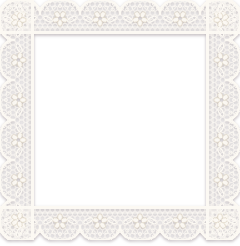
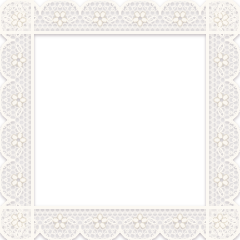
Seamless lace (page edges and invitation frame); paper texture on all cards and popups
Claude-Session: https://claude.ai/code/session_01AsA5vBc6AvZgEsD5xC2kRu

diff --git a/index.html b/index.html
@@ -236,7 +236,7 @@
   .music-fab .eq{height:18px;padding-bottom:1px}
   .music-fab[aria-pressed="true"]{background:var(--rose);color:#fff;border-color:#E2C487}
   .sheet-bg{position:fixed;inset:0;z-index:30;background:rgba(70,30,50,.35);backdrop-filter:blur(3px);display:flex;align-items:flex-end;justify-content:center;animation:fade-in .25s ease}
-  .sheet{width:min(460px,100%);background:#fff;border-radius:26px 26px 0 0;padding:10px 20px calc(20px + env(safe-area-inset-bottom));box-shadow:0 -10px 40px -10px rgba(120,35,70,.4);animation:sheet-up .35s cubic-bezier(.2,.8,.2,1)}
+  .sheet{width:min(460px,100%);background:#FBF8F2 url(img/papercard.jpg);border-radius:26px 26px 0 0;padding:10px 20px calc(20px + env(safe-area-inset-bottom));box-shadow:0 -10px 40px -10px rgba(120,35,70,.4);animation:sheet-up .35s cubic-bezier(.2,.8,.2,1)}
   .sheet-grip{width:42px;height:5px;border-radius:5px;background:var(--line);margin:4px auto 14px}
   .sheet h3{font:500 italic 30px/1.1 "Cormorant Garamond",serif;color:var(--rose);text-align:center;margin:0 0 14px}
   .contacts{list-style:none;margin:0 0 6px;padding:0}
@@ -313,7 +313,7 @@
   body{background:var(--bg) repeating-linear-gradient(-35deg,rgba(0,0,0,.012) 0 2px,transparent 2px 5px)}
   body::before{display:none}
   h2{font:400 46px/1.05 "Pinyon Script",cursive;color:var(--ink)}
-  .card{border-radius:6px;background:#FFFDFB;box-shadow:0 1px 0 rgba(185,154,106,.25),0 12px 30px -22px rgba(60,40,70,.35);border:1px solid rgba(185,154,106,.28)}
+  .card{border-radius:6px;background:#FBF8F2 url(img/papercard.jpg);box-shadow:0 1px 0 rgba(185,154,106,.25),0 12px 30px -22px rgba(60,40,70,.35);border:1px solid rgba(185,154,106,.28)}
   .btn.primary{background:var(--rose)}
   /* hero: the painting, full height */
   .hero{margin:0 -16px;min-height:100svh;display:flex;flex-direction:column;align-items:center;justify-content:center;
@@ -383,7 +383,7 @@
   .hero-flora.left{left:-14px;transform:rotate(-8deg)}
   .hero-flora.right{right:-14px;transform:scaleX(-1) rotate(-8deg)}
   /* invitation: a paper card framed in lace */
-  .card.invite{margin-top:80px;padding:58px 4px 30px;border-radius:0;border:20px solid transparent;border-image:url(img/laceframe.png) 34 round;
+  .card.invite{margin-top:80px;padding:54px 0 26px;border-radius:0;border:24px solid transparent;border-image:url(img/laceframe.png) 40 round;
     background:#FBF8F2 url(img/papercard.jpg) padding-box;box-shadow:none;filter:drop-shadow(0 10px 16px rgba(60,40,60,.16))}
   .card.invite .flora.top{left:50%;top:-100px;width:300px;transform:translateX(-50%)}
   .invite .salam{font:600 17px/1.4 "Cormorant Garamond",serif;color:var(--ink)}
